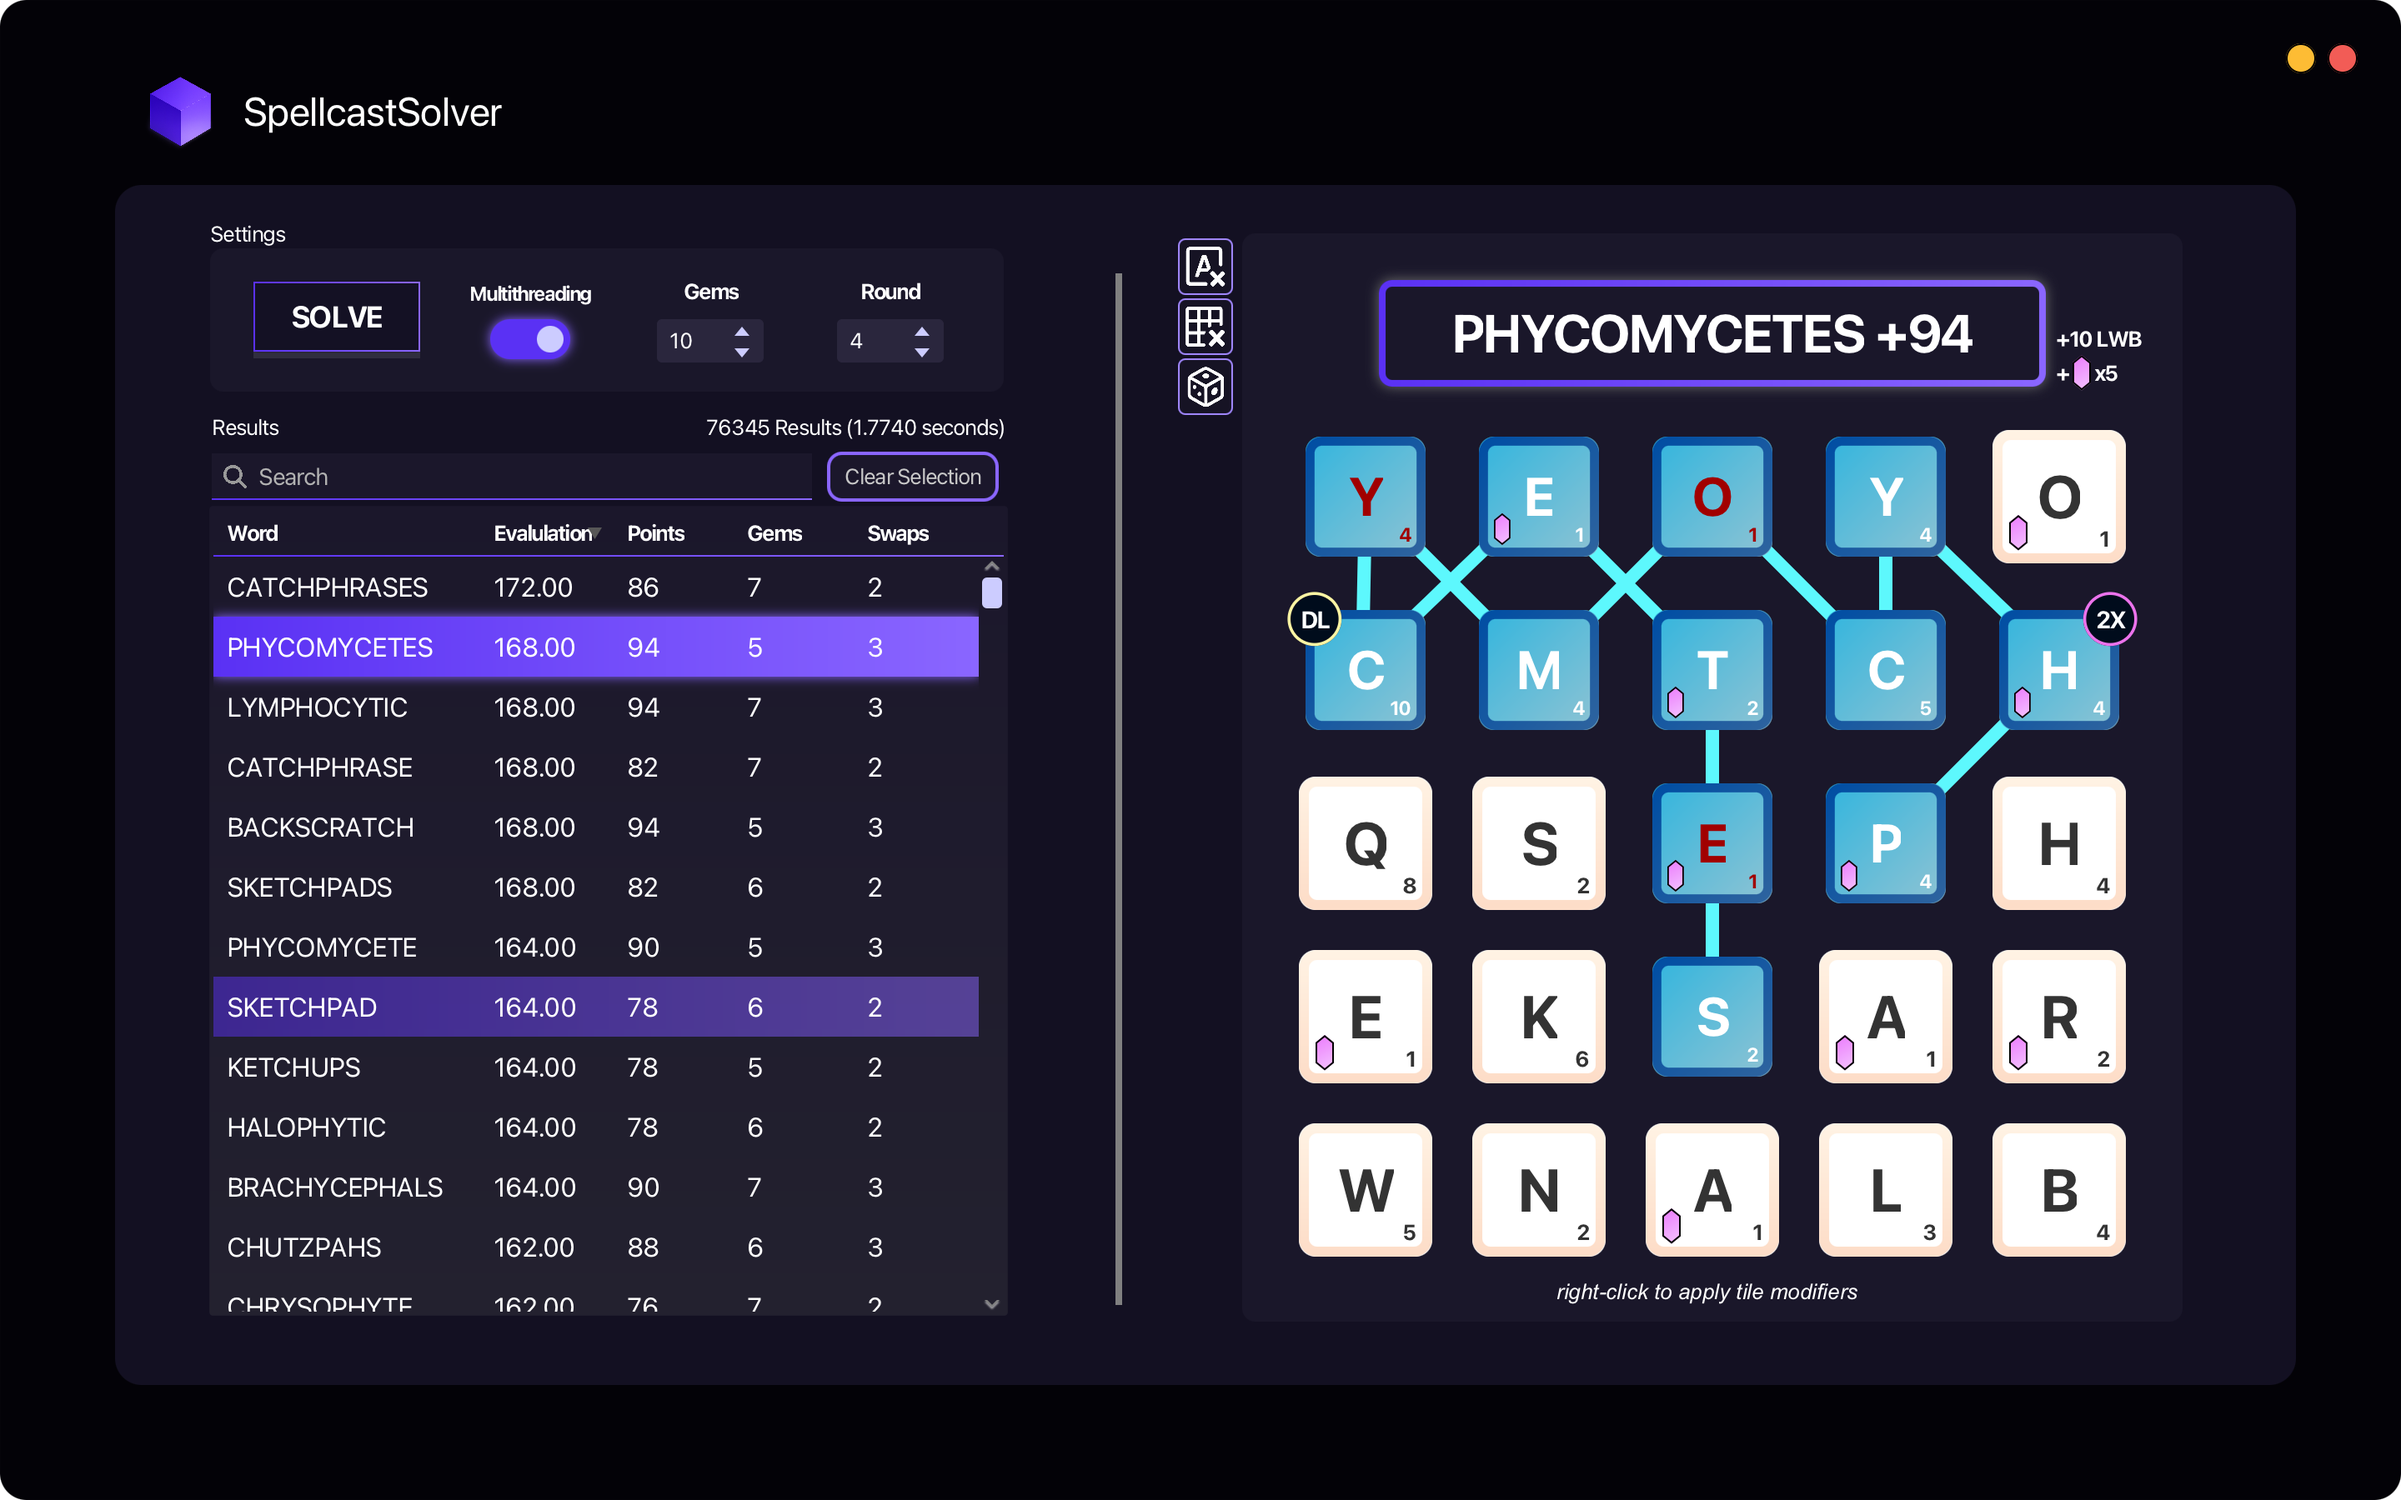
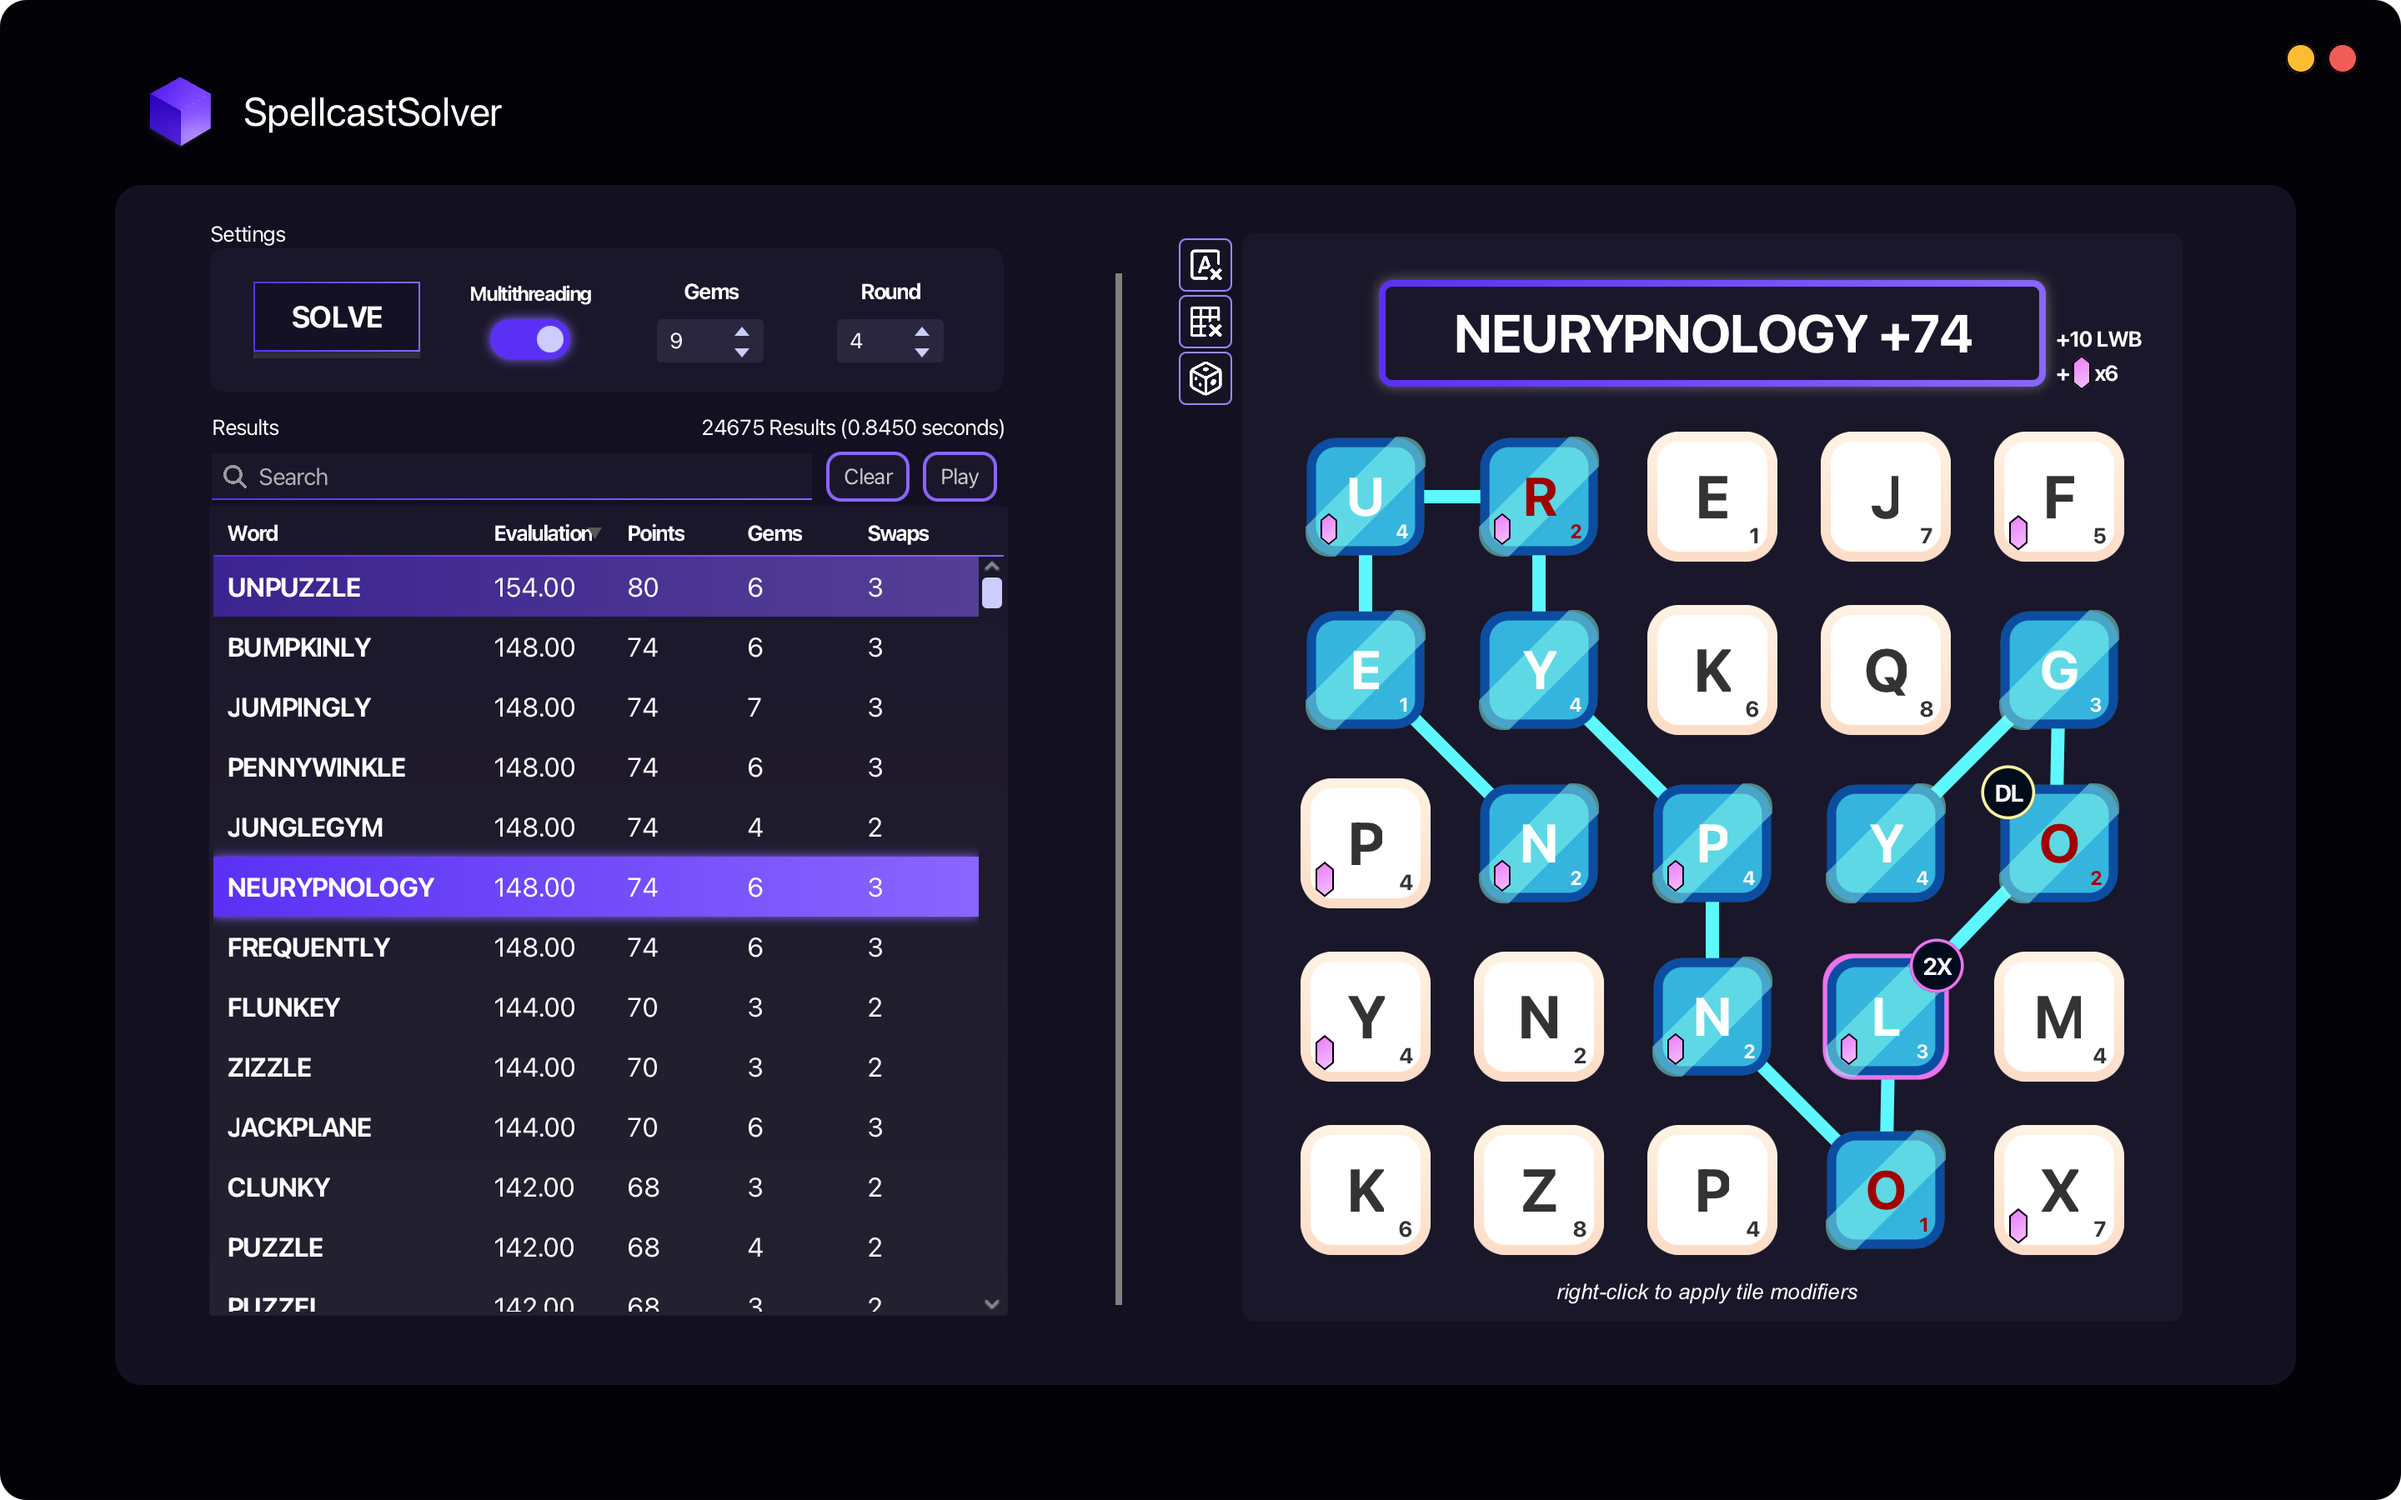
Update screenshot

diff --git a/README.md b/README.md
@@ -140,6 +140,10 @@ words if they yield more gems for future moves with swaps.
     - 📖 `Lexicographical order`
 
    Type in the search bar to find matches for your desired word.
+7. **Clear / Play Move**
+    - **Clear**: Deselect the current move and reset your tile selection.
+    - **Play**: Apply the selected move — updates the **round number**, adjusts your **gem inventory**,
+   and removes the used letters from the board for a smoother full-game experience.
 
 ## 🛠Technologies Used
 
